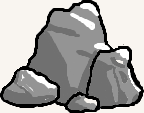
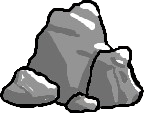
removed background

diff --git a/docs/galmi/index.html b/docs/galmi/index.html
@@ -4,7 +4,7 @@
   <meta charset="UTF-8" />
   <meta name="viewport" content="width=device-width, initial-scale=1" />
   <title>Galmi</title>
-  <link rel="icon" type="image/png" href="/galmi/img/galmi-icon.png">
+  <link rel="icon" type="image/png" href="/galmi/img/rocks/3.png">
   <link href="https://fonts.googleapis.com/css2?family=Open+Sans&family=Playfair+Display&display=swap" rel="stylesheet" />
   <link rel="stylesheet" href="/galmi/css/style.css" />
   <link rel="stylesheet" href="/galmi/css/mobile.css" />
